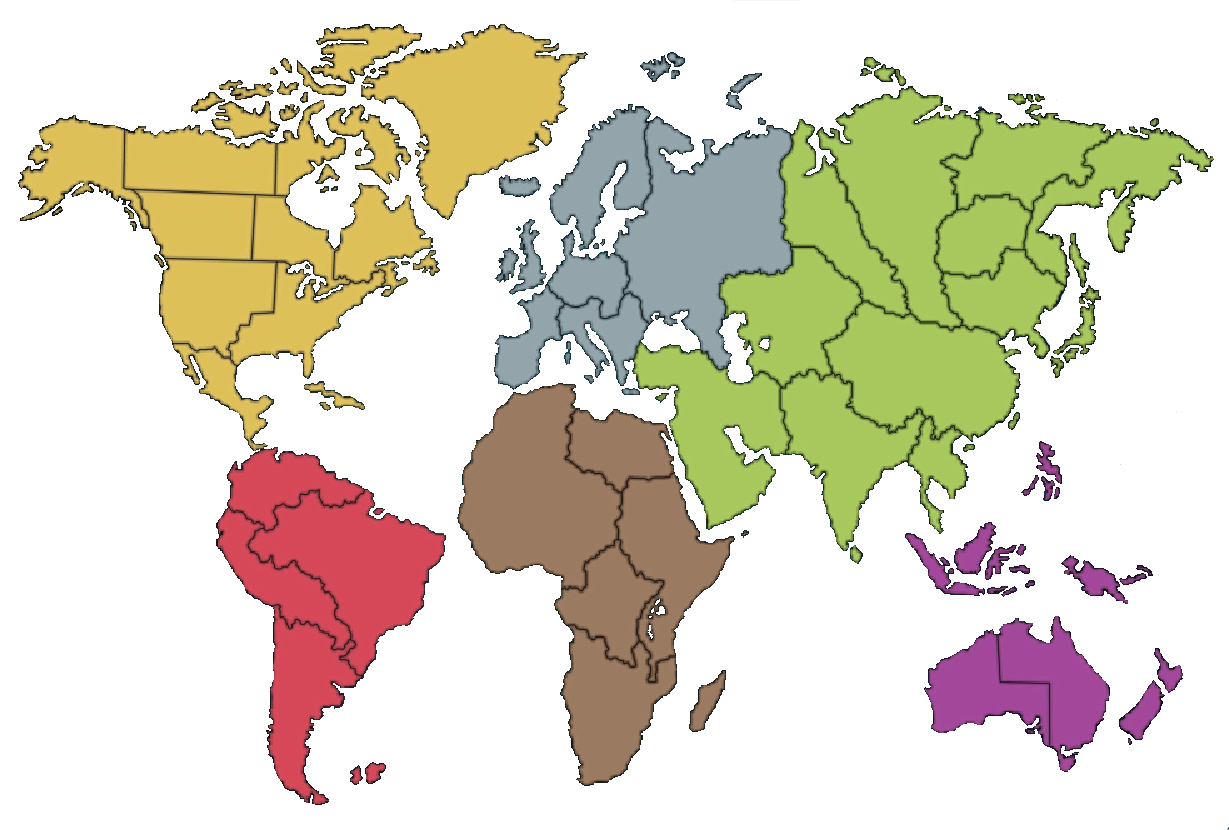
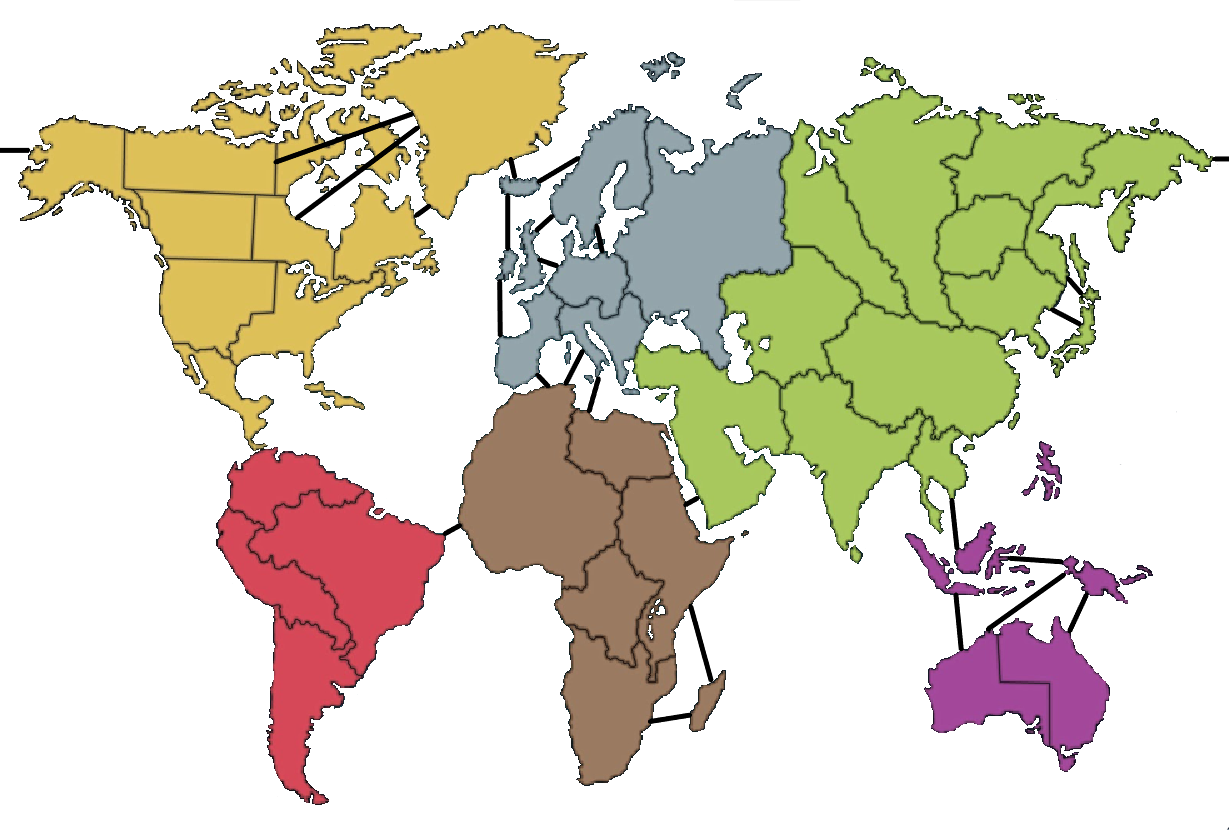
New riskboard (better looks) DONE BY ETHAN.

diff --git a/src/main/view/RiskFrame.java b/src/main/view/RiskFrame.java
@@ -77,7 +77,7 @@ public class RiskFrame extends JFrame implements RiskGameListener {
         //attempt to read the map file
         BufferedImage mapImage = null;
         try {
-            mapImage = ImageIO.read(getClass().getResource("/resources/testMap2/testMap2.jpg"));
+            mapImage = ImageIO.read(getClass().getResource("/resources/RiskBoard.png"));
         } catch (IOException ioException) {
             System.out.println("RISK Board Load Failed");
             ioException.printStackTrace();
@@ -231,11 +231,20 @@ public class RiskFrame extends JFrame implements RiskGameListener {
     }
 
     private void paintPoints(Graphics g) {
+        /*for (Territory t : pointsToPaint.keySet()) {
+            Point p = pointsToPaint.get(t);
+            Map<Territory,Point> neighbourNodes = riskModel.getNeighbouringNodes(t);
+            for (Point p2 : neighbourNodes.values()) {
+                g.drawLine(p2.x+6,p2.y+6,p.x+6,p.y+6);
+            }
+        }*/
+
         for (Territory t : pointsToPaint.keySet()) {
             Point p = pointsToPaint.get(t);
+            g.setColor(Color.BLACK);
+
             int x = (int) (p.getX());
             int y = (int) (p.getY());
-            g.setColor(Color.BLACK);
             g.fillOval(x-2,y-2,16,16);
             g.setColor(riskModel.getTerritoryOwner(t).getColour());
             g.fillOval(x,  y, 12, 12);

diff --git a/src/main/core/WorldMap.java b/src/main/core/WorldMap.java
@@ -109,7 +109,7 @@ public class WorldMap {
 
         //attempt to read the file
         try {
-            File myObj = new File("src/resources/testMap2/testMap2.txt");
+            File myObj = new File("src/resources/map.txt");
             Scanner myReader = new Scanner(myObj);
             while (myReader.hasNextLine()) {
                 String data = myReader.nextLine();
